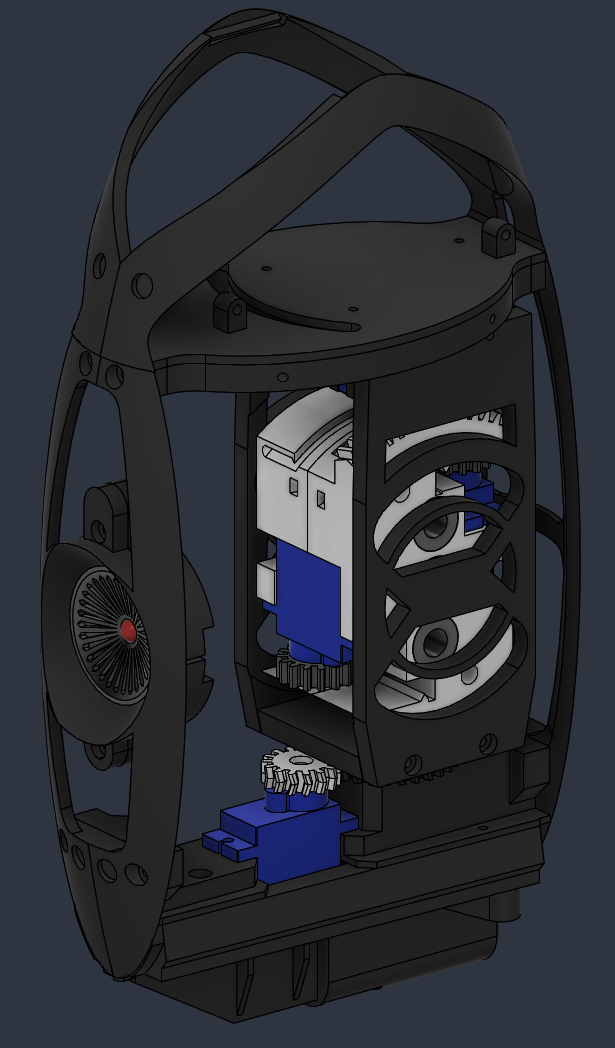
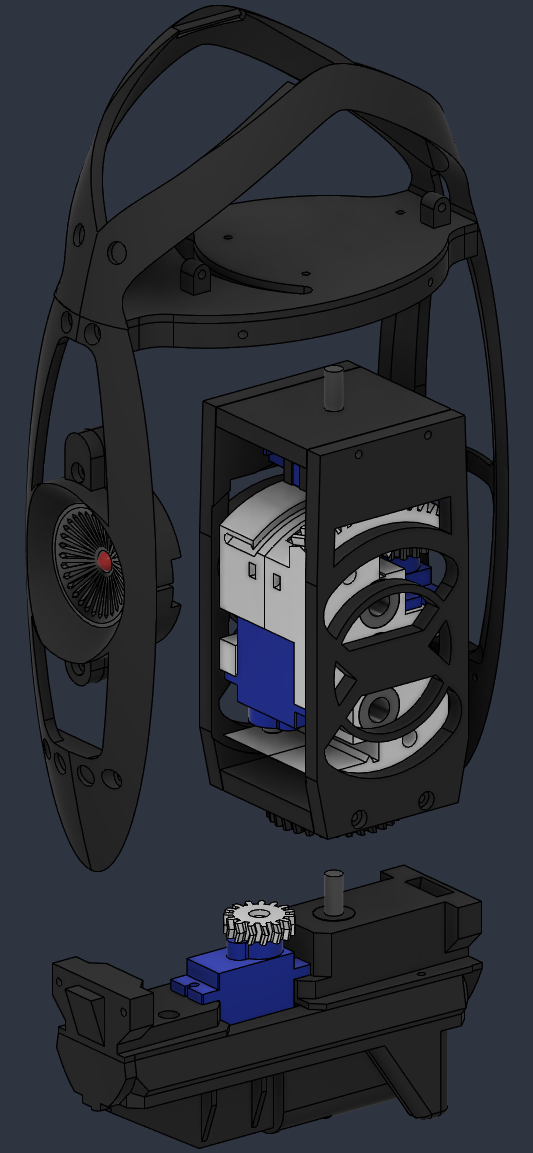
More images and explanations.

Changed region(s): [[0.03, 0.0, 0.9606, 1.0], [0.5403, 0.1527, 0.5704, 0.1832], [0.3902, 0.1221, 0.4203, 0.1527]]

diff --git a/README.md b/README.md
@@ -71,51 +71,53 @@ Here's raw screenshots. Explicit information comes later.
 ### Bottom
 | Notes | Images |
 | --- | --- |
-| Screw the Z Axis gear on a 180 servo. Attach the servo to the Servo Mount. The USB-C board should be glued into place. If you can't get a solid connection with glue, a tiny screw with some heatshrink could be screwed through the D- slot. Make sure the screw does not short D- to ground, hence the heatshrink. | <img src="images/bottom_001.png" alt="Bottom 1" height="400"> |
-| The main board power wire should have the black wire soldered to the GND pad of the USB board. The red wire should slide to the bottom. Another red wire should be soldered to the 5V (Vcc) pad of the USB board. Slide those through the channels. Attach the two power wires by appropriate connectors or soldering to the switch and slide it in the bottom. Route the servo wire up through the same channels. | <img src="images/bottom_003.png" alt="Bottom 2" height="400"> |
-| Slide the switch in the slot on the bottom. | <img src="images/bottom_002.png" alt="Bottom 2" height="400"> |
-| The servo mount is attached to the bottom with 4 more screws. | <img src="images/bottom_004.png" alt="Bottom 2" height="400"> |
+| Slide a 180 servo in the mount and screw it secure | <img src="images/bottom_001.png" alt="Bottom 2" height="400"> |
+| Screw on the Z Axis gear. | <img src="images/bottom_002.png" alt="Bottom 2" height="400"> |
+| The USB-C board should be glued into place. If you can't get a solid connection with glue, a tiny screw with some heatshrink could be screwed through the D- slot. Make sure the screw does not short D- to ground, hence the heatshrink tubing. Run the wires through the bottom. Make sure to leave enough to route the wires and attach the JST connector. | <img src="images/bottom_003.png" alt="Bottom 2" height="400"> |
+| Route the two 5V wires to the bottom. One should come from the USB board, the other should go to your power connector. | <img src="images/bottom_004.png" alt="Bottom 2" height="400"> |
+| The servo wires should also be run through the same channel to go up in the back. | <img src="images/bottom_005.png" alt="Bottom 2" height="400"> |
+| Run both the servo and power wires through the gantry. Use the little brace to keep them out of the way from the gantry.  | <img src="images/bottom_006.png" alt="Bottom 2" height="400"> |
 
 ### Eye
 | Notes | Images |
 | --- | --- |
-|  | <img src="images/eye_001.png" alt="Eye 1" height="400"> |
+| Print the flat retina and mold. As PLA gets soft at relatively low temperatures, you can dunk it in boiling water and press it on the mold for the correct shape. Make sure to print the diffuser with very little top/bottom layers and walls, or use transparent filament. Glue in the LED ring and 5mm LED.| <img src="images/eye_001.png" alt="Eye 1" height="400"> |
 
 ### Gantry
 
 | Notes | Images |
 | --- | --- |
-|  | <img src="images/gantry_001.png" alt="Gantry 1" height="400"> |
-|  | <img src="images/gantry_002.png" alt="Gantry 2" height="400"> |
-|  | <img src="images/gantry_003.png" alt="Gantry 3" height="400"> |
+| The gantry consists of 5 different pieces. This is done so you can print with little to no support material. The eye should click in place and stay there without any glue. | <img src="images/gantry_001.png" alt="Gantry 1" height="400"> |
+| The whole gantry should screw together and give enough rigidity for the build. | <img src="images/gantry_002.png" alt="Gantry 2" height="400"> |
+| Slide in the gantry and bottom. Make sure to not rotate your servo when assembling, otherwise you'll risk a very big offset in angle. You can calibrate small offsets in the settings. | <img src="images/gantry_003.png" alt="Gantry 3" height="400"> |
+| Screw in the last screws on the front and back of the gantry to finish the motion system. | <img src="images/gantry_004.png" alt="Gantry 3" height="400"> |
 
 ### Guns
 
 | Notes | Images |
 | --- | --- |
-|  | <img src="images/gun_001.png" alt="Gun 1" height="400"> |
-|  | <img src="images/gun_002.png" alt="Gun 2" height="400"> |
-|  | <img src="images/gun_003.png" alt="Gun 3" height="400"> |
-|  | <img src="images/gun_004.png" alt="Gun 4" height="400"> |
-|  | <img src="images/gun_005.png" alt="Gun 5" height="400"> |
-|  | <img src="images/gun_006.png" alt="Gun 6" height="400"> |
-|  | <img src="images/gun_007.png" alt="Gun 7" height="400"> |
-|  | <img src="images/gun_008.png" alt="Gun 8" height="400"> |
-|  | <img src="images/gun_009.png" alt="Gun 9" height="400"> |
+| Attach the lever to a 180 servo. The lever should be a friction fit. | <img src="images/gun_001.png" alt="Gun 1" height="400"> |
+| The barrels should slide in place with a bit of friction. Use one screw to assemble the two parts. | <img src="images/gun_002.png" alt="Gun 2" height="400"> |
+| Move the lever so it points forwards. | <img src="images/gun_003.png" alt="Gun 3" height="400"> |
+| Slide the barrel mount over the lever an drotate it back | <img src="images/gun_004.png" alt="Gun 4" height="400"> |
+| Carefully slide the assembly in the housing.  | <img src="images/gun_005.png" alt="Gun 5" height="400"> |
+| Press the barrles back in the housing. | <img src="images/gun_006.png" alt="Gun 6" height="400"> |
+| The top can now be screwed on. | <img src="images/gun_007.png" alt="Gun 6" height="400"> |
+| The front plate should click in place. | <img src="images/gun_008.png" alt="Gun 6" height="400"> |
 
 ### Wings
 
 | Notes | Images |
 | --- | --- |
-|  | <img src="images/wing_001.png" alt="Wing 1" height="400"> |
-|  | <img src="images/wing_002.png" alt="Wing 2" height="400"> |
-|  | <img src="images/wing_003.png" alt="Wing 3" height="400"> |
-|  | <img src="images/wing_004.png" alt="Wing 4" height="400"> |
+| Add 1mm magnets to the slots of the wing. Mind the polarity! | <img src="images/wing_001.png" alt="Wing 1" height="400"> |
+| Add 1mm magnets to the slots of the the wing frame. Mind the polarity! | <img src="images/wing_002.png" alt="Wing 2" height="400"> |
+| The gun should slide in the designated slot. | <img src="images/wing_003.png" alt="Wing 3" height="400"> |
+| Attach the rack gear and secure it with a screw. Glue in the 4mm and 6mm steel rods. | <img src="images/wing_004.png" alt="Wing 4" height="400"> |
 
 ### Leg
 | Notes | Images |
 | --- | --- |
-|  | <img src="images/leg_001.png" alt="Leg 1" height="400"> |
+| The legs should be glued together. Use a piece of 4mm rod to strengthen the joint between the "leg" and the "knee" | <img src="images/leg_001.png" alt="Leg 1" height="400"> |
 
 ## Firmware
 
